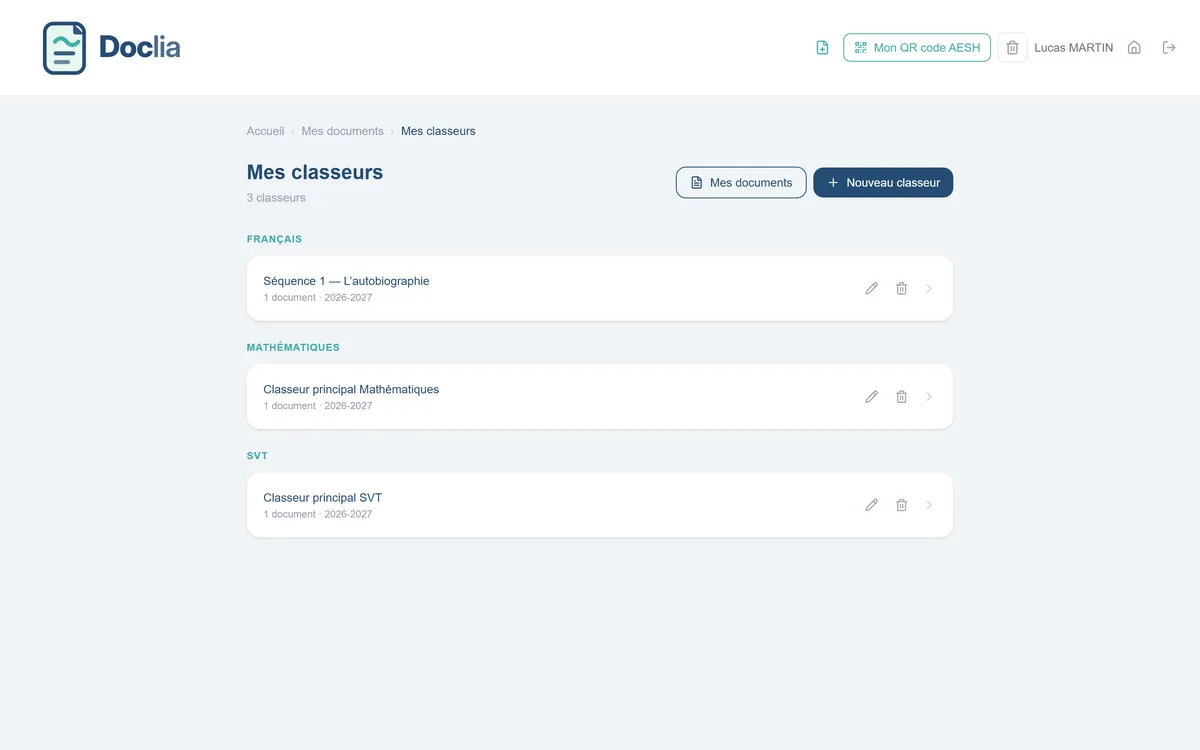
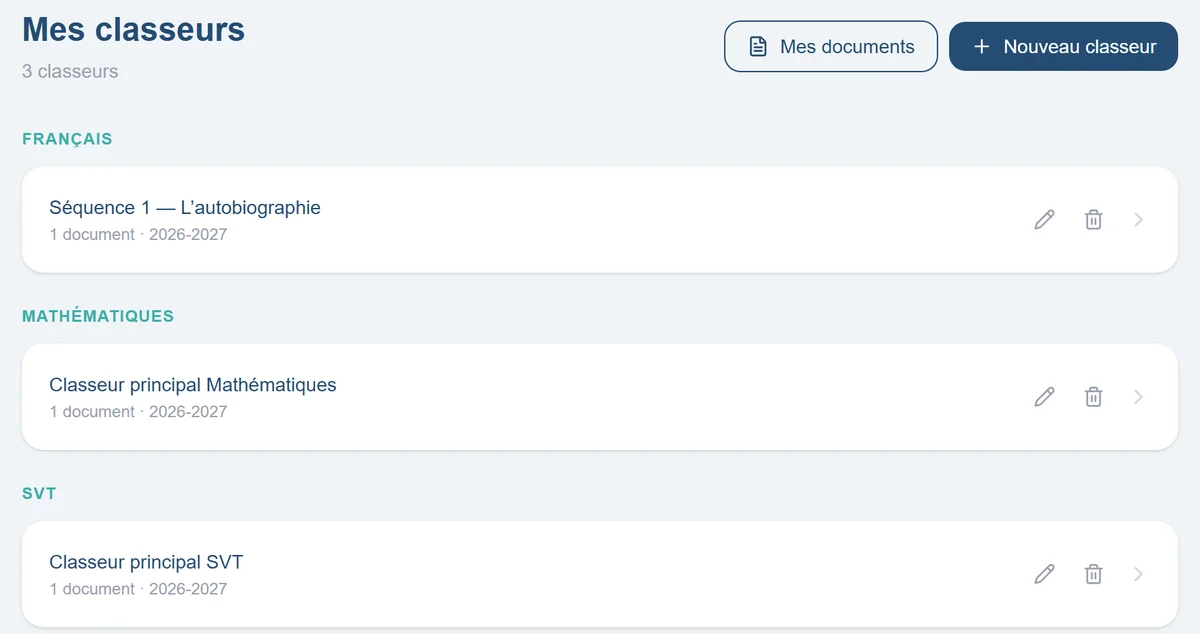
DEV-Site: verdict CMO 19/10 22:38 — IMG-6 en pleine largeur dès 768 px et absente sur téléphone ; capture 4.1 recadrée sur la liste des classeurs
Claude-Session: https://claude.ai/code/session_01RpKnjWoS5fRHWa3MWZjy1P

diff --git a/index.html b/index.html
@@ -110,8 +110,8 @@
           <div class="step__media">
     <!-- Image IMG-2 — fichier images/img-2.webp (1536 × 1024) -->
             <picture><source srcset="/images/img-2.avif" type="image/avif"><img class="media" src="/images/img-2.webp" width="1200" height="800" alt="Un élève photographie une feuille de cours avec son téléphone." loading="lazy"></picture>
-            <!-- Capture réelle 4.1 — fichiers images/capture-4-1.avif et .webp (1200 × 750), monde démo, non retouchée ; alt : textes V1.25 -->
-            <picture class="step__capture"><source srcset="/images/capture-4-1.avif" type="image/avif"><img class="media" src="/images/capture-4-1.webp" width="1200" height="750" alt="Capture de l’application Doclia : la page « Mes classeurs » d’un élève, avec ses classeurs rangés par matière (français, mathématiques, SVT)." loading="lazy"></picture>
+            <!-- Capture réelle 4.1 — fichiers images/capture-4-1.avif et .webp (1200 × 634), recadrée sur la liste des classeurs (verdict CMO 19/10 22:38), monde démo, non retouchée ; alt : textes V1.25 -->
+            <picture class="step__capture"><source srcset="/images/capture-4-1.avif" type="image/avif"><img class="media" src="/images/capture-4-1.webp" width="1200" height="634" alt="Capture de l’application Doclia : la page « Mes classeurs » d’un élève, avec ses classeurs rangés par matière (français, mathématiques, SVT)." loading="lazy"></picture>
           </div>
           <div class="step__body">
             <!-- Texte 4.1 — L'élève a son classeur : titre -->
@@ -228,12 +228,10 @@
           <!-- Texte 7 — point 4 -->
           <li><strong>La famille suit.</strong> Le journal de bord réunit ce que l’AESH a noté et ce qui a été classé, renommé ou mis à la corbeille pendant les sessions ; l’élève voit quels AESH se sont connectés à son espace, et quand pour la dernière fois.</li>
         </ul>
-        <div>
-          <!-- Image IMG-6 — bandeau de session (images/img-6-bandeau.avif et .webp, 1920 × 100), monde démo, non retouché ; alt : textes V1.26 -->
-          <picture><source srcset="/images/img-6-bandeau.avif" type="image/avif"><img class="media bandeau" src="/images/img-6-bandeau.webp" width="1920" height="100" alt="Capture de l’application Doclia : le bandeau de session de l’élève indique le nom de l’AESH connecté, le temps restant et un bouton pour terminer la session." loading="lazy"></picture>
-          <!-- Texte 7 — Encadré données (COS) -->
-          <p class="callout">Les documents et les données de votre enfant sont conservés en France. Les services que nous ne faisons pas nous-mêmes sont encadrés par contrat, conformément au RGPD. Nous ne vendons ni ne cédons jamais vos données, et nous n’utilisons aucun cookie ni traceur publicitaire, ni sur le site ni dans l’application. Le détail figurera dans la politique de confidentialité de l’application, publiée avant son ouverture.</p>
-        </div>
+        <!-- Image IMG-6 — bandeau de session (images/img-6-bandeau.avif et .webp, 1920 × 100), monde démo, non retouché ; alt : textes V1.26. Affiché dès 768 px, en pleine largeur sous les quatre points ; masqué sur téléphone, où il serait illisible (verdict CMO 19/10 22:38) -->
+        <picture class="split__bandeau"><source srcset="/images/img-6-bandeau.avif" type="image/avif"><img class="media bandeau" src="/images/img-6-bandeau.webp" width="1920" height="100" alt="Capture de l’application Doclia : le bandeau de session de l’élève indique le nom de l’AESH connecté, le temps restant et un bouton pour terminer la session." loading="lazy"></picture>
+        <!-- Texte 7 — Encadré données (COS) -->
+        <p class="callout">Les documents et les données de votre enfant sont conservés en France. Les services que nous ne faisons pas nous-mêmes sont encadrés par contrat, conformément au RGPD. Nous ne vendons ni ne cédons jamais vos données, et nous n’utilisons aucun cookie ni traceur publicitaire, ni sur le site ni dans l’application. Le détail figurera dans la politique de confidentialité de l’application, publiée avant son ouverture.</p>
       </div>
     </div>
   </section>

diff --git a/assets/css/site.css b/assets/css/site.css
@@ -772,12 +772,30 @@ main:focus {
   margin-top: 2rem;
 }
 
+/* Bandeau IMG-6 : absent sur téléphone (illisible), pleine largeur dès 768 px */
+.split__bandeau {
+  display: none;
+}
+
+@media (min-width: 48rem) {
+  .split__bandeau {
+    display: block;
+  }
+}
+
 @media (min-width: 64rem) {
   .split {
     grid-template-columns: 1fr 1fr;
-    gap: 3rem;
+    grid-template-areas:
+      "points callout"
+      "bandeau bandeau";
+    gap: 2rem 3rem;
     align-items: start;
   }
+
+  .split > .points { grid-area: points; }
+  .split > .split__bandeau { grid-area: bandeau; }
+  .split > .callout { grid-area: callout; }
 }
 
 .points {
@@ -803,7 +821,7 @@ main:focus {
 }
 
 .callout {
-  margin: 1.5rem 0 0;
+  margin: 0;
   padding: 1.25rem 1.5rem;
   background: var(--color-bg-soft);
   border-radius: var(--radius-xl);

diff --git a/MODIFIER_LES_TEXTES.md b/MODIFIER_LES_TEXTES.md
@@ -1,6 +1,6 @@
 # Modifier un texte du site, sans développeur
 
-1. **Où est le texte** : une page = un fichier HTML à la racine (`index.html` = page principale, `etablissements.html`, `merci.html`, `inscription-confirmee.html`, `404.html`, `mentions-legales.html`, `confidentialite.html`, `erreur.html`, `confirmer.html`, `lien-expire.html`). L'en-tête et le pied de page sont recopiés dans chaque fichier : un changement s'y fait dans les dix. Dans l'en-tête, les cinq liens de navigation figurent deux fois (liste pour ordinateur, menu replié pour mobile) : changer les deux.
+1. **Où est le texte** : une page = un fichier HTML à la racine (`index.html` = page principale, `etablissements.html`, `merci.html`, `inscription-confirmee.html`, `404.html`, `mentions-legales.html`, `confidentialite.html`, `erreur.html`, `confirmer.html`, `lien-expire.html`). L'en-tête et le pied de page sont recopiés dans chaque fichier : un changement s'y fait dans les dix. Dans l'en-tête, les six liens de navigation figurent deux fois (liste pour ordinateur, menu replié pour mobile) : changer les deux.
 2. **Repérer le bloc** : chaque texte est précédé d'un commentaire `<!-- Texte 4.1 — … -->` qui porte le numéro de section de `docs/Doclia_Site_Textes_V1.md`. Chercher ce numéro avec Ctrl+F.
 3. **Modifier sur github.com** : ouvrir le fichier, cliquer sur le crayon (« Edit this file »), changer uniquement le texte entre les balises, sans toucher aux `<…>`.
 4. **Enregistrer** : « Commit changes… », choisir **« Create a new branch… and start a pull request »**, puis « Propose changes » et « Create pull request ».
